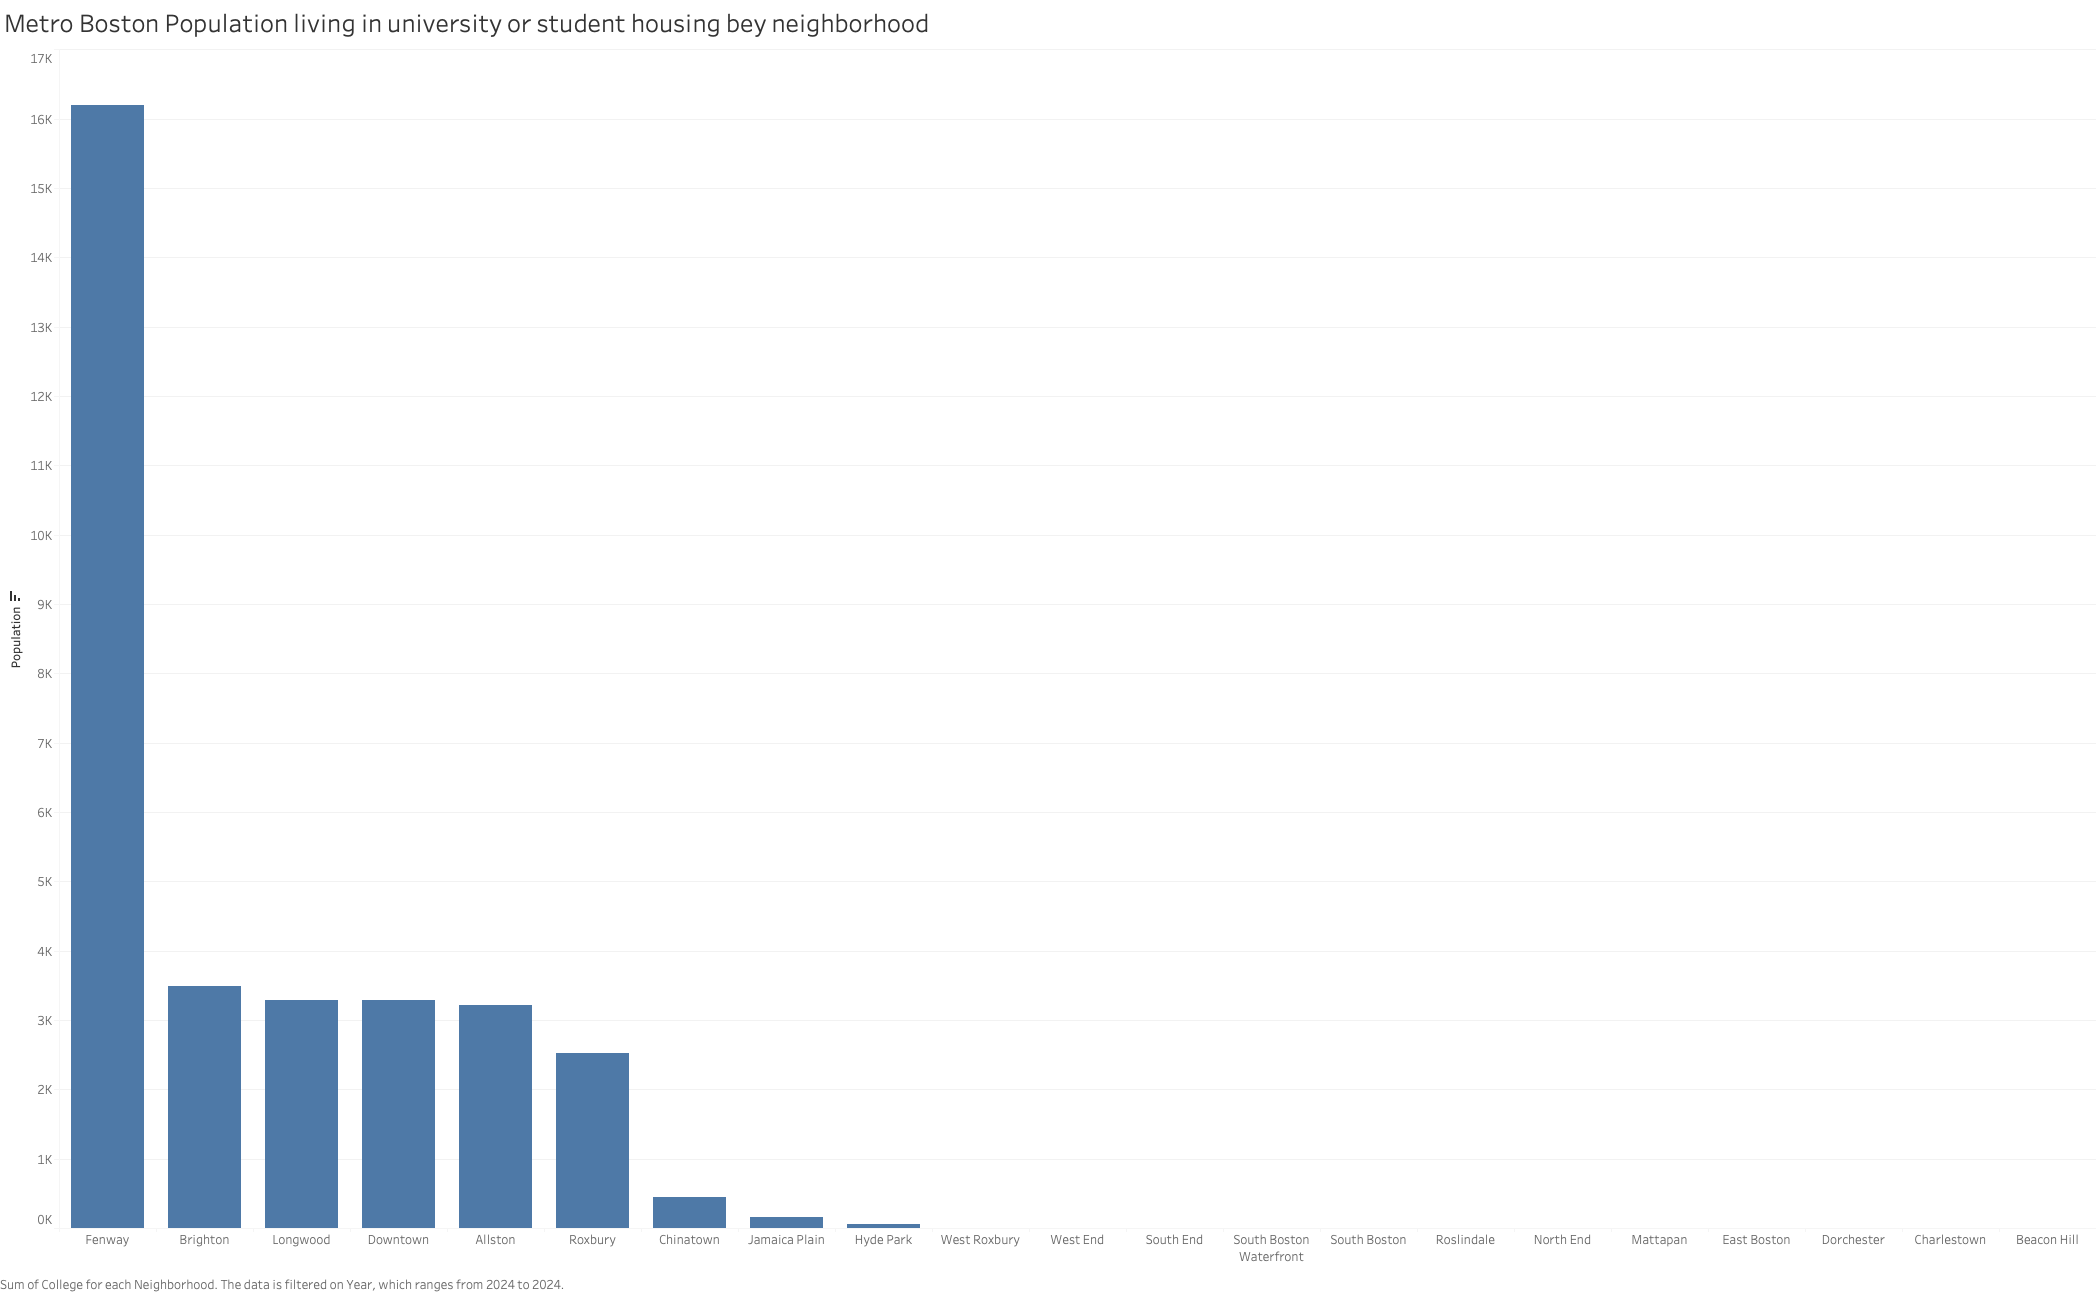
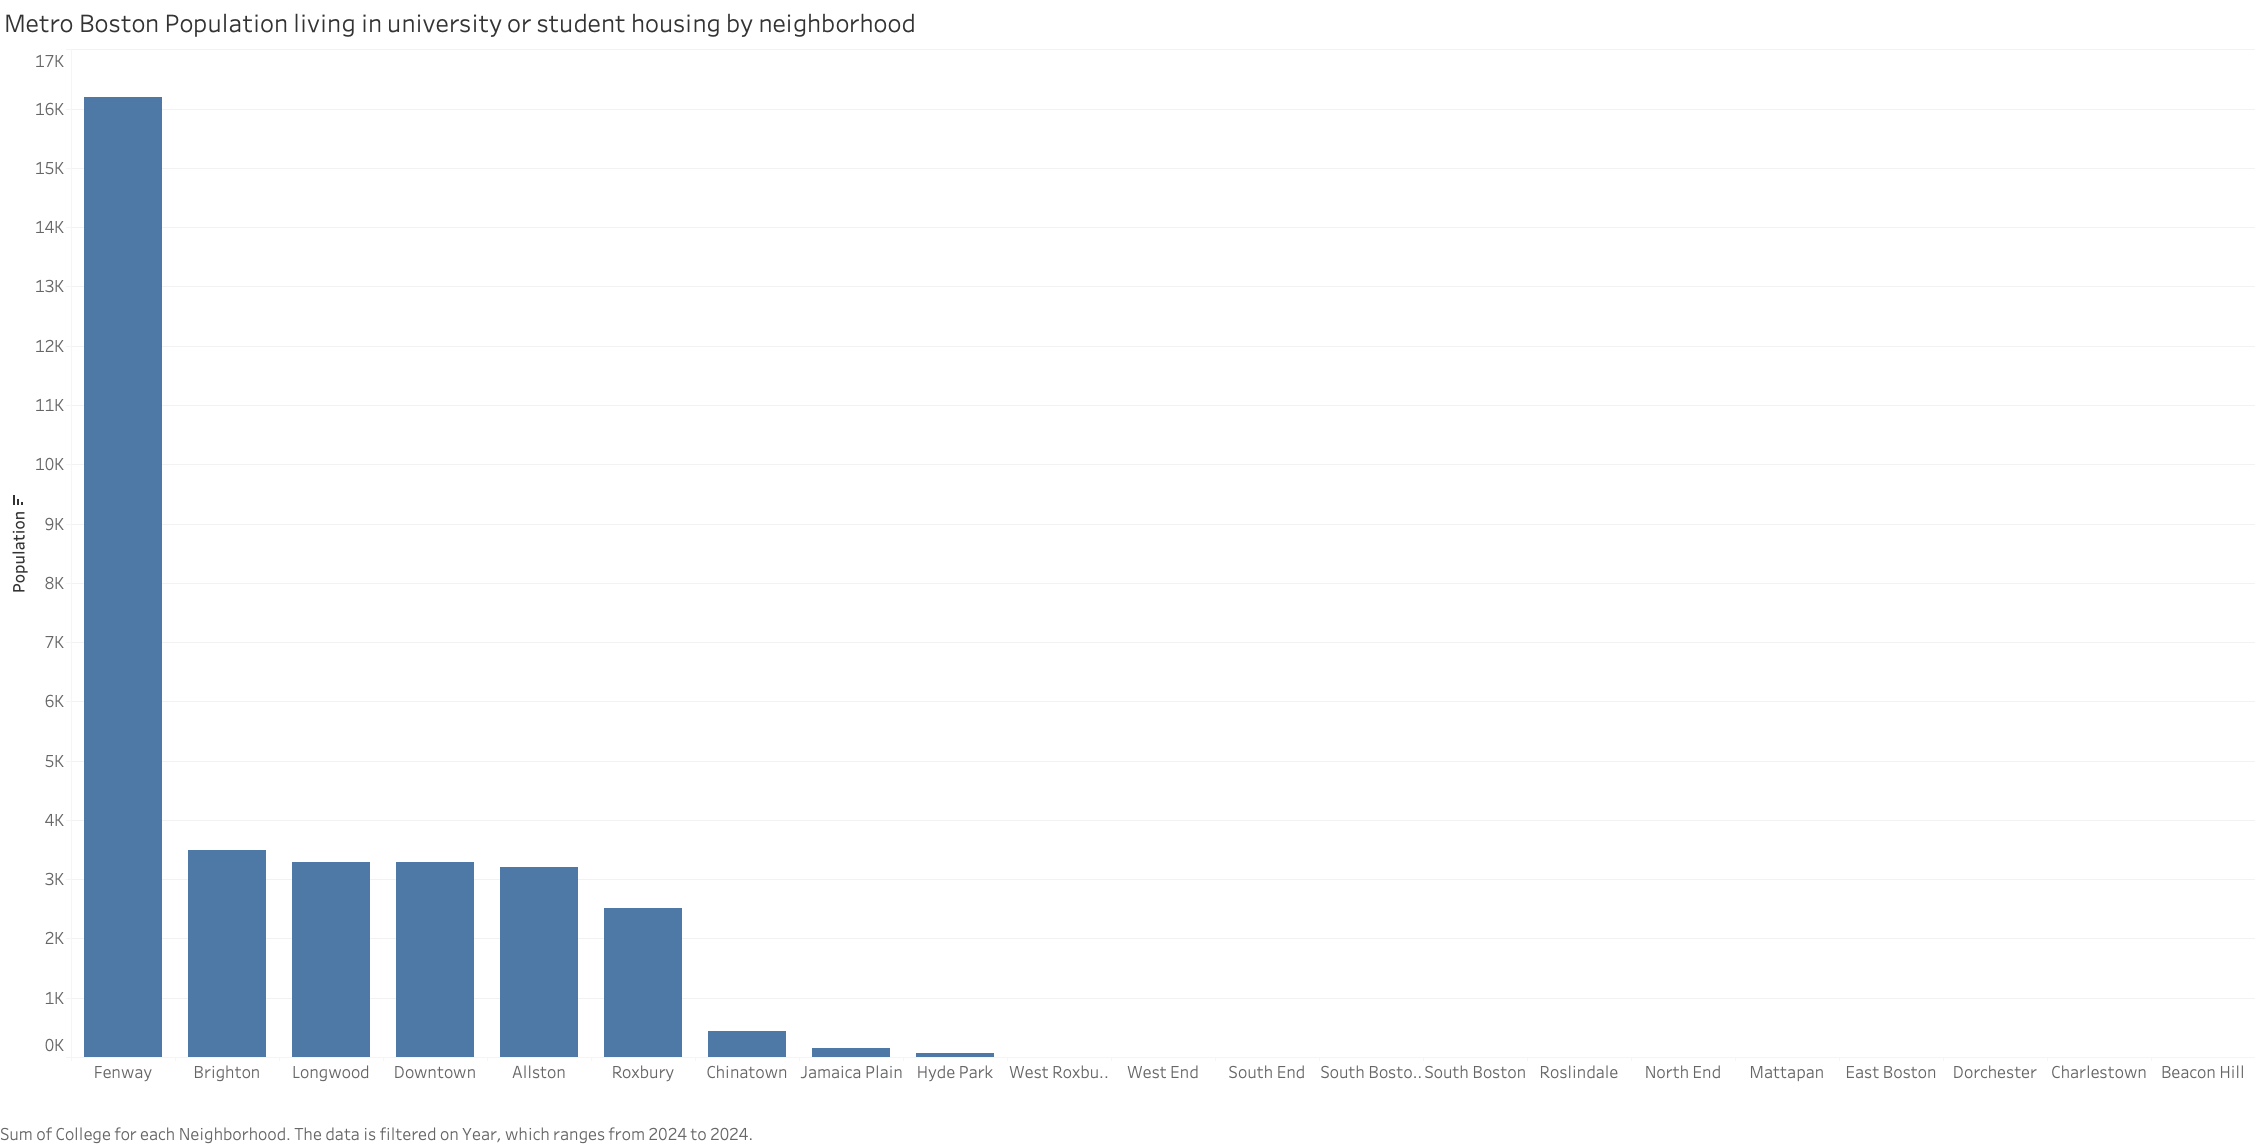
added some captions fix image spelling error

diff --git a/index.html b/index.html
@@ -24,40 +24,40 @@
 			<ol>
 				<li>Is the disparity in eviction filings between live-in/live-nearby landlords compared to absentee/corporate landlords statistically significant? Is it concentrated/driven by certain neighborhoods, socioeconomic demographics, or other factors? How has COVID impacted this disparity?</li>
 					<ul>
-						<li>Motivation: this disparity is clearly a problem, but it is likely so widespread it would be difficult to priotize initiatives to tackle the issue without some measure of severity</li>
+						<li>Motivation: this disparity is clearly a problem, but it is likely so widespread it would be difficult to prioritize initiatives to tackle the issue without some measure of severity</li>
 					</ul>
-				<li>Where has corporate ownership overtime experienced the biggest change? Does normalizing either for land area or some measure of wealth change the which neighborhoods are the biggest hotspots? What does this imply about future trends in corporate ownership if nothing is done? Are there any guardrails that could stop or reverse any trends today?</li>
+				<li>Where has corporate ownership overtime experienced the biggest change? Does normalizing either for land area or some measure of wealth change the which neighborhoods are the biggest hot spots? What does this imply about future trends in corporate ownership if nothing is done? Are there any guardrails that could stop or reverse any trends today?</li>
 					<ul>
 						<li>Motivation: Just want to understand if there is saturation in corporate ownership or if we are still in the middle of a long wave. This can provide some context on the scale of the issue was well as where we need to focus without simply looking at totals which is why the normalization piece feels important to me.</li>
 					</ul>
 				<li> Which demographics were impacted COVID evictions more than others? Did corporate ownership accelerate or slow during COVID?</li>
 					<ul>
-						<li>Motivation: COVID obviously had an enourmous impact on housing and the financial sector and I am curious to know if corporate owners got more aggressive either in evicitions or in buying up properties as a result. </li>
+						<li>Motivation: COVID obviously had an enormous impact on housing and the financial sector and I am curious to know if corporate owners got more aggressive either in evictions or in buying up properties as a result. </li>
 					</ul>
 			</ol>
 		</section>
 
 		<section>
 			<h2>Discoveries & Insights</h2>
-			After actually digging into the data, I realized a few major things. Firstly, there is no eviction data. There is 2020 census data, corporate ownership data over time (2004-2024), and owner occupancy data over time (2004-2024). The demographic data being only a snapshot from 2020 meant I had to be careful about when I used sum vs average vs filtering for a specific year. I learned this the hard way when the population of the metro Boston area was showing up over 13M initially. The description of the dataset and subtheme made me think there was eviction data with fields for live in/live nearby landlords vs corporate landlords, but unfortunately that is not the case. I was able to pivot my analysis and visualization to focus understanding where different demographics of people live and what the corresponding trends in corporate ownership and owner occupancy is in those areas.
+			After actually digging into the data, I realized a few major things. Firstly, there is no eviction data. There is 2020 census data, corporate ownership data over time (2004-2024), and owner occupancy data over time (2004-2024). The demographic data being only a snapshot from 2020 meant I had to be careful about when I used sum vs average vs filtering for a specific year. I learned this the hard way when the population of the metro Boston area was showing up over 13M initially. The description of the dataset and sub-theme made me think there was eviction data with fields for live in/live nearby landlords vs corporate landlords, but unfortunately that is not the case. I was able to pivot my analysis and visualization to focus understanding where different demographics of people live and what the corresponding trends in corporate ownership and owner occupancy is in those areas. Given the large number of neighborhoods also I found sizing and readability to an issue throughout the visualization process and something I'd like to improve on in the future.
 			<figure>
 				<img src="images/races.png" alt="stacked bar chart of racial breakdown by race" style = "width: 100%; height: 70%" />
 				<figcaption>
-				ENTER IMAGE CAPTION HERE.
+				This plot shows the total population living in each metro Boston neighborhood in 2020 split by race / ethnicity. Initially I was hesitant to create a plot that focused on race, but I realized that it was important to understand the racial breakdown of the area to understand the context of the data. I was surprised to see Dorchester as the most populated area. I've lived in the metro Boston area for nearly 6 years and only recently started to spend time in Dorchester. The racial division of most neighborhoods leaves a dominate race is most neighborhoods (e.g., South Boston is primarily white, Hyde Park and Mattapan are primarily black, Chinatown is primarily Asian and Pacific Islander, etc.). However, Roxbury, Dorchester, and East Boston are the most diverse neighborhoods. I'd love to be able to layer on wealth or income data to understand the intersectionality from here. 
 				</figcaption>
 			</figure>
 
 			<figure>
 				<img src="images/college.png" alt="bar chart of number of people living in student housing" style = "width: 100%; height: 70%" />
 				<figcaption>
-				ENTER IMAGE CAPTION HERE.
+				This plot shows the metro Boston population living in college/university housing by neighborhood. This was both surprising and unsurprising in different ways. The concentration of student housing in Fenway due to Boston University, Roxbury with Northeastern, Downtown with Tufts and Emerson all seemed reasonable. I could generally point to what university was driving the population of each neighborhood. The surprising part was the overall number of students. Boston is often anecdotally referred to as a college town, but ~30,000 residing in student housing relative to the 1.3M total population is not as high as I would have expected.
 				</figcaption>
 			</figure>
 
 			<figure>
 				<img src="images/corpown.png" alt="corporate ownership trend over time by neighborhood" style = "width: 100%; height: 70%" />
 				<figcaption>
-				ENTER IMAGE CAPTION HERE.
+				This plot shows the trends in corporate ownership from 2004 to 2024 in the metro Boston area with a different trend line for each neighborhood. There is also an overall trend line for the metro Boston area, with the 2004 and 2024 data points labeled. The overall trend line shows a steady increase in corporate ownership over time. The neighborhood trend lines show a lot of variation, but the overall trend is still visible. The neighborhoods with the most corporate ownership in 2024 are Fenway, Downtown, and South Boston. The neighborhoods with the least corporate ownership in 2024 are Hyde Park, Mattapan, and Roslindale. I was surprised to see the ownership rates to be slowly increasing in the first decade, but after about 2014, the trend seemed to increase more drasatically. I am curious to see if there will be any sort of saturation or decline in corporate ownership over time, along with what this trend looks like more broadly in the US.
 				</figcaption>
 			</figure>
 
